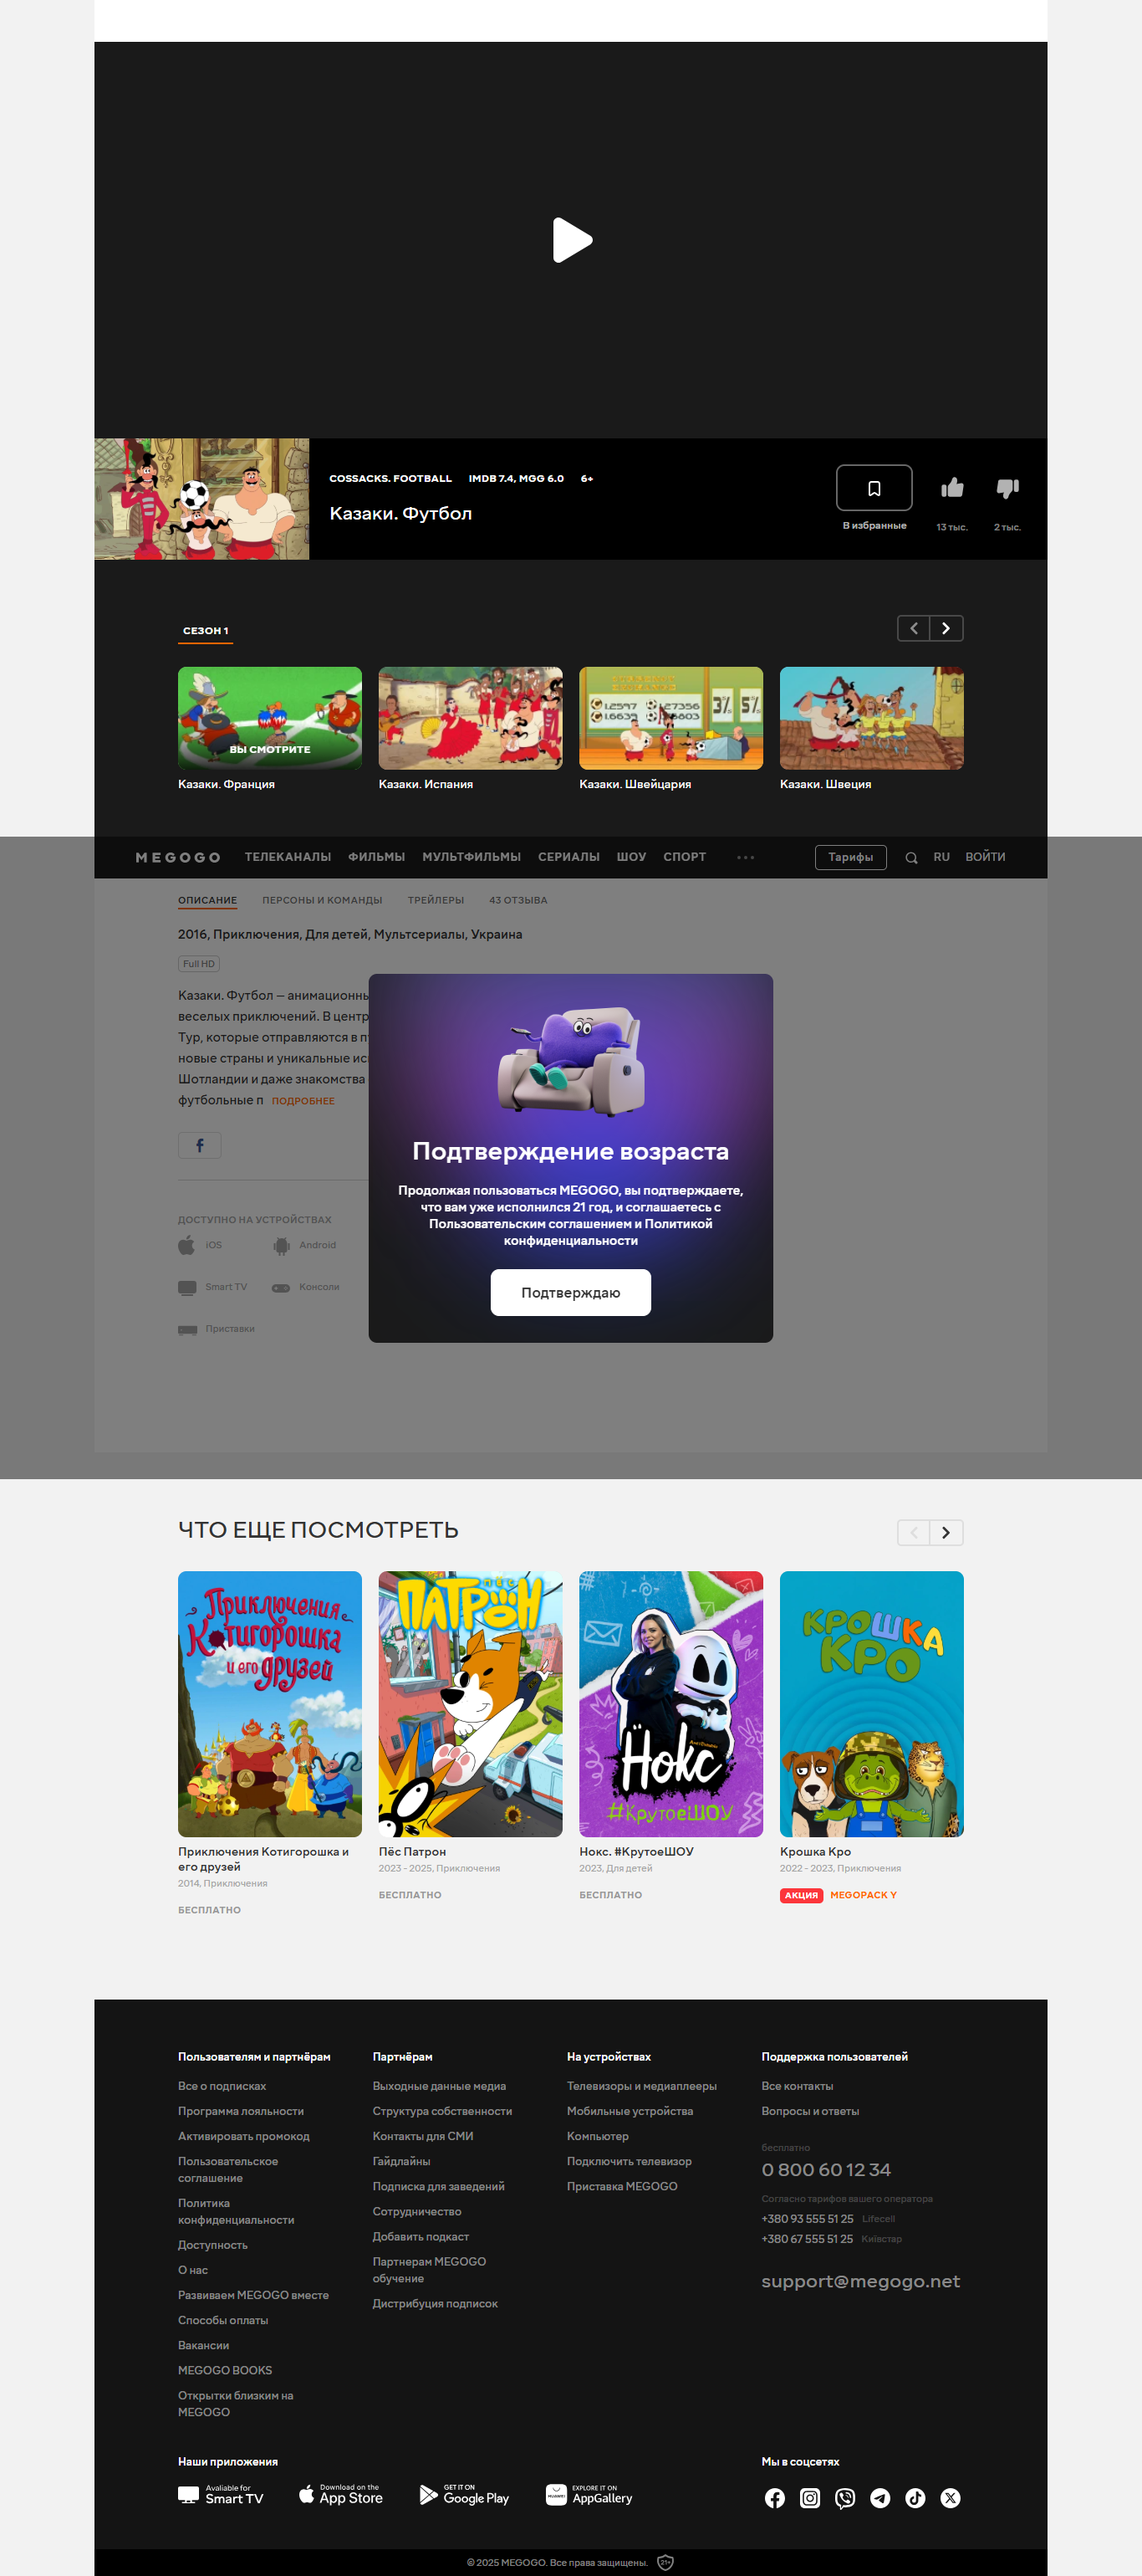
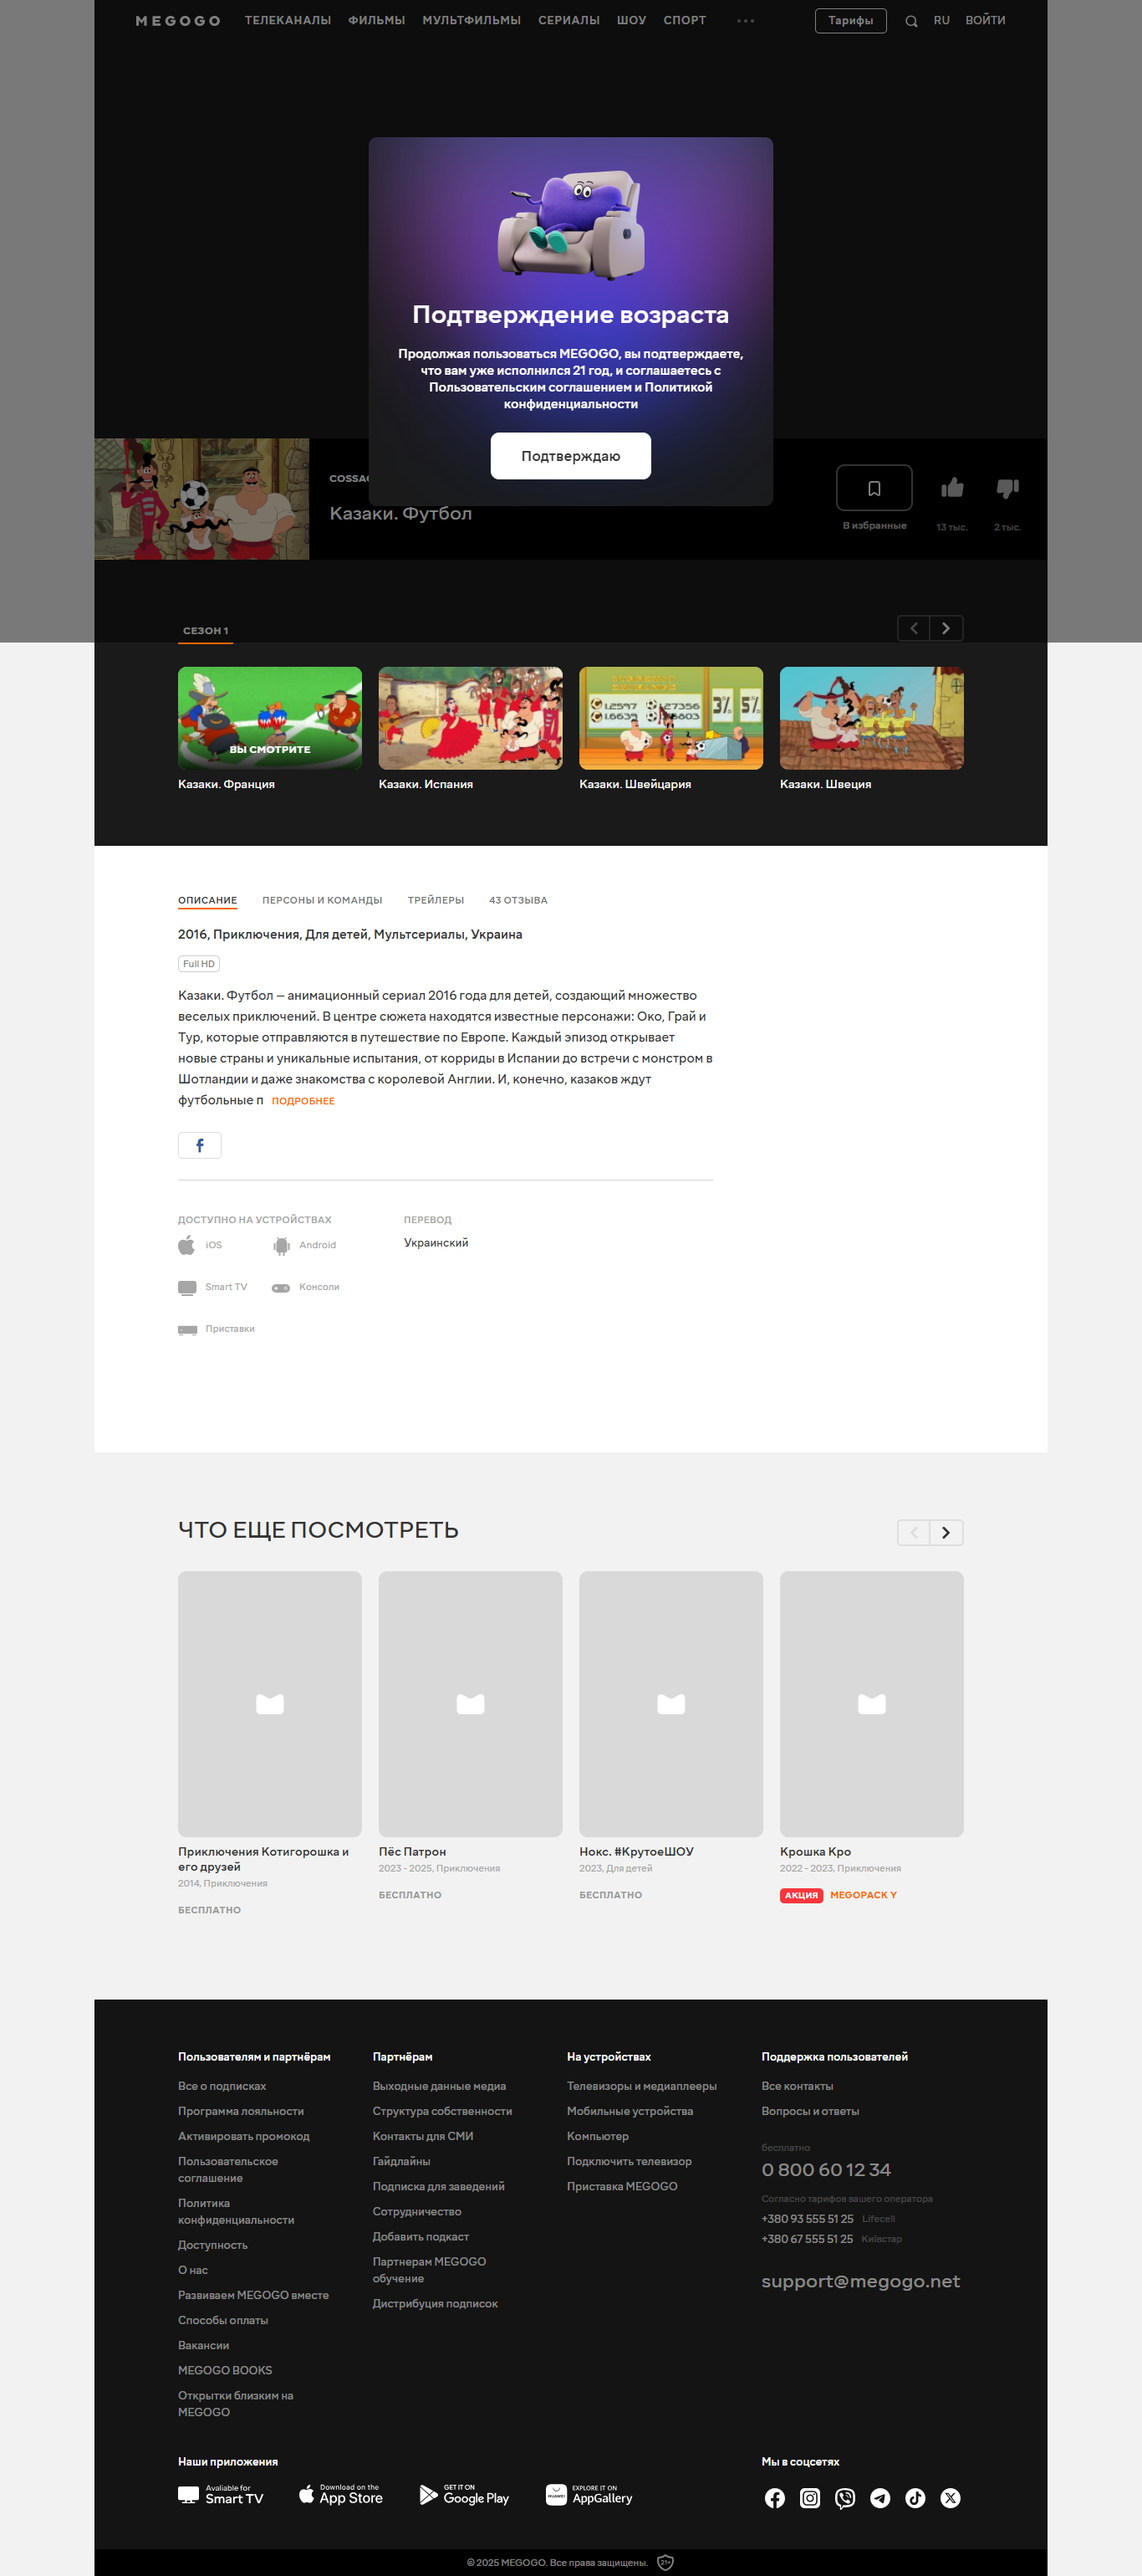
fixed routes getPdf, getScreenShot. Find modal

diff --git a/src/app/api/parse-megogo/utils/parseMegogo.ts b/src/app/api/parse-megogo/utils/parseMegogo.ts
@@ -158,13 +158,59 @@ export async function parseMegogo(url: string) {
   //   path: 'pdfFileName.pdf',
   // });
 
-  // 🖼 Зберігаємо скріншот у /tmp
-  const screenshotFileName = `screenshotFileName.png`;
-  const screenshotPath = isRemote
-    ? `/tmp/${screenshotFileName}`
-    : `public/${screenshotFileName}`;
-  await page.bringToFront();
-  await page.screenshot({ path: screenshotPath, fullPage: true });
+  const topElement = await page.evaluate(() => {
+    const x = window.innerWidth / 2;
+    const y = window.innerHeight / 2;
+
+    const el = document.elementFromPoint(x, y);
+    return el ? el.outerHTML : null;
+  });
+
+  console.log('topElement', topElement);
+
+  const largeZIndex = await page.evaluate(() => {
+    const elements = [...document.querySelectorAll('body *')];
+
+    let maxZ = -Infinity;
+    let top = null;
+
+    for (const el of elements) {
+      const style = window.getComputedStyle(el);
+      const z = parseInt(style.zIndex);
+
+      if (
+        !isNaN(z) &&
+        z > maxZ &&
+        style.display !== 'none' &&
+        style.visibility !== 'hidden'
+      ) {
+        maxZ = z;
+        top = el;
+      }
+    }
+
+    return top ? top.outerHTML : null;
+  });
+
+  console.log('largeZIndex', largeZIndex);
+
+  const modal = await page.evaluate(() => {
+    const elements = [...document.querySelectorAll('body *')];
+    const fixed = elements.filter(
+      el => getComputedStyle(el).position === 'fixed',
+    );
+    const last = fixed[fixed.length - 1];
+    return last ? last.outerHTML : null;
+  });
+
+  console.log('modal', modal);
+  // // 🖼 Зберігаємо скріншот у /tmp
+  // const screenshotFileName = `screenshotFileName.png`;
+  // const screenshotPath = isRemote
+  //   ? `/tmp/${screenshotFileName}`
+  //   : `public/${screenshotFileName}`;
+  // await page.bringToFront();
+  // await page.screenshot({ path: screenshotPath, fullPage: true });
 
   // const consent = await page.$$eval('div[class*="consent"]', els =>
   //   els.map(el => ({

diff --git a/src/app/api/getScreenShot/route.ts b/src/app/api/getScreenShot/route.ts
@@ -3,7 +3,11 @@ import { NextResponse } from 'next/server';
 import path from 'path';
 //https://parser-m.onrender.com/api/getScreenShot
 export async function GET() {
-  const screenshotPath = path.join('/tmp', 'screenshotFileName.png');
+  const isProd = process.env.NODE_ENV === 'production';
+
+  const screenshotPath = isProd
+    ? path.join('/tmp', 'screenshotFileName.png')
+    : path.join(process.cwd(), 'public', 'screenshotFileName.png');
 
   if (!fs.existsSync(screenshotPath)) {
     return NextResponse.json({ error: 'No screenshot found' }, { status: 404 });
@@ -11,6 +15,9 @@ export async function GET() {
 
   const buffer = fs.readFileSync(screenshotPath);
   return new NextResponse(buffer, {
-    headers: { 'Content-Type': 'image/png' },
+    headers: {
+      'Content-Type': 'image/png',
+      'Content-Disposition': 'inline; filename="screenshotFileName.png"',
+    },
   });
 }

diff --git a/src/app/api/getPdf/route.ts b/src/app/api/getPdf/route.ts
@@ -4,7 +4,11 @@ import path from 'path';
 
 // https://parser-m.onrender.com/api/getScreenShot
 export async function GET() {
-  const pdfFileName = path.join('/tmp', 'pdfFileName.pdf');
+  const isProd = process.env.NODE_ENV === 'production';
+
+  const pdfFileName = isProd
+    ? path.join('/tmp', 'pdfFileName.pdf')
+    : path.join(process.cwd(), 'public', 'pdfFileName.pdf');
 
   // Check if the file exists
   if (!fs.existsSync(pdfFileName)) {
